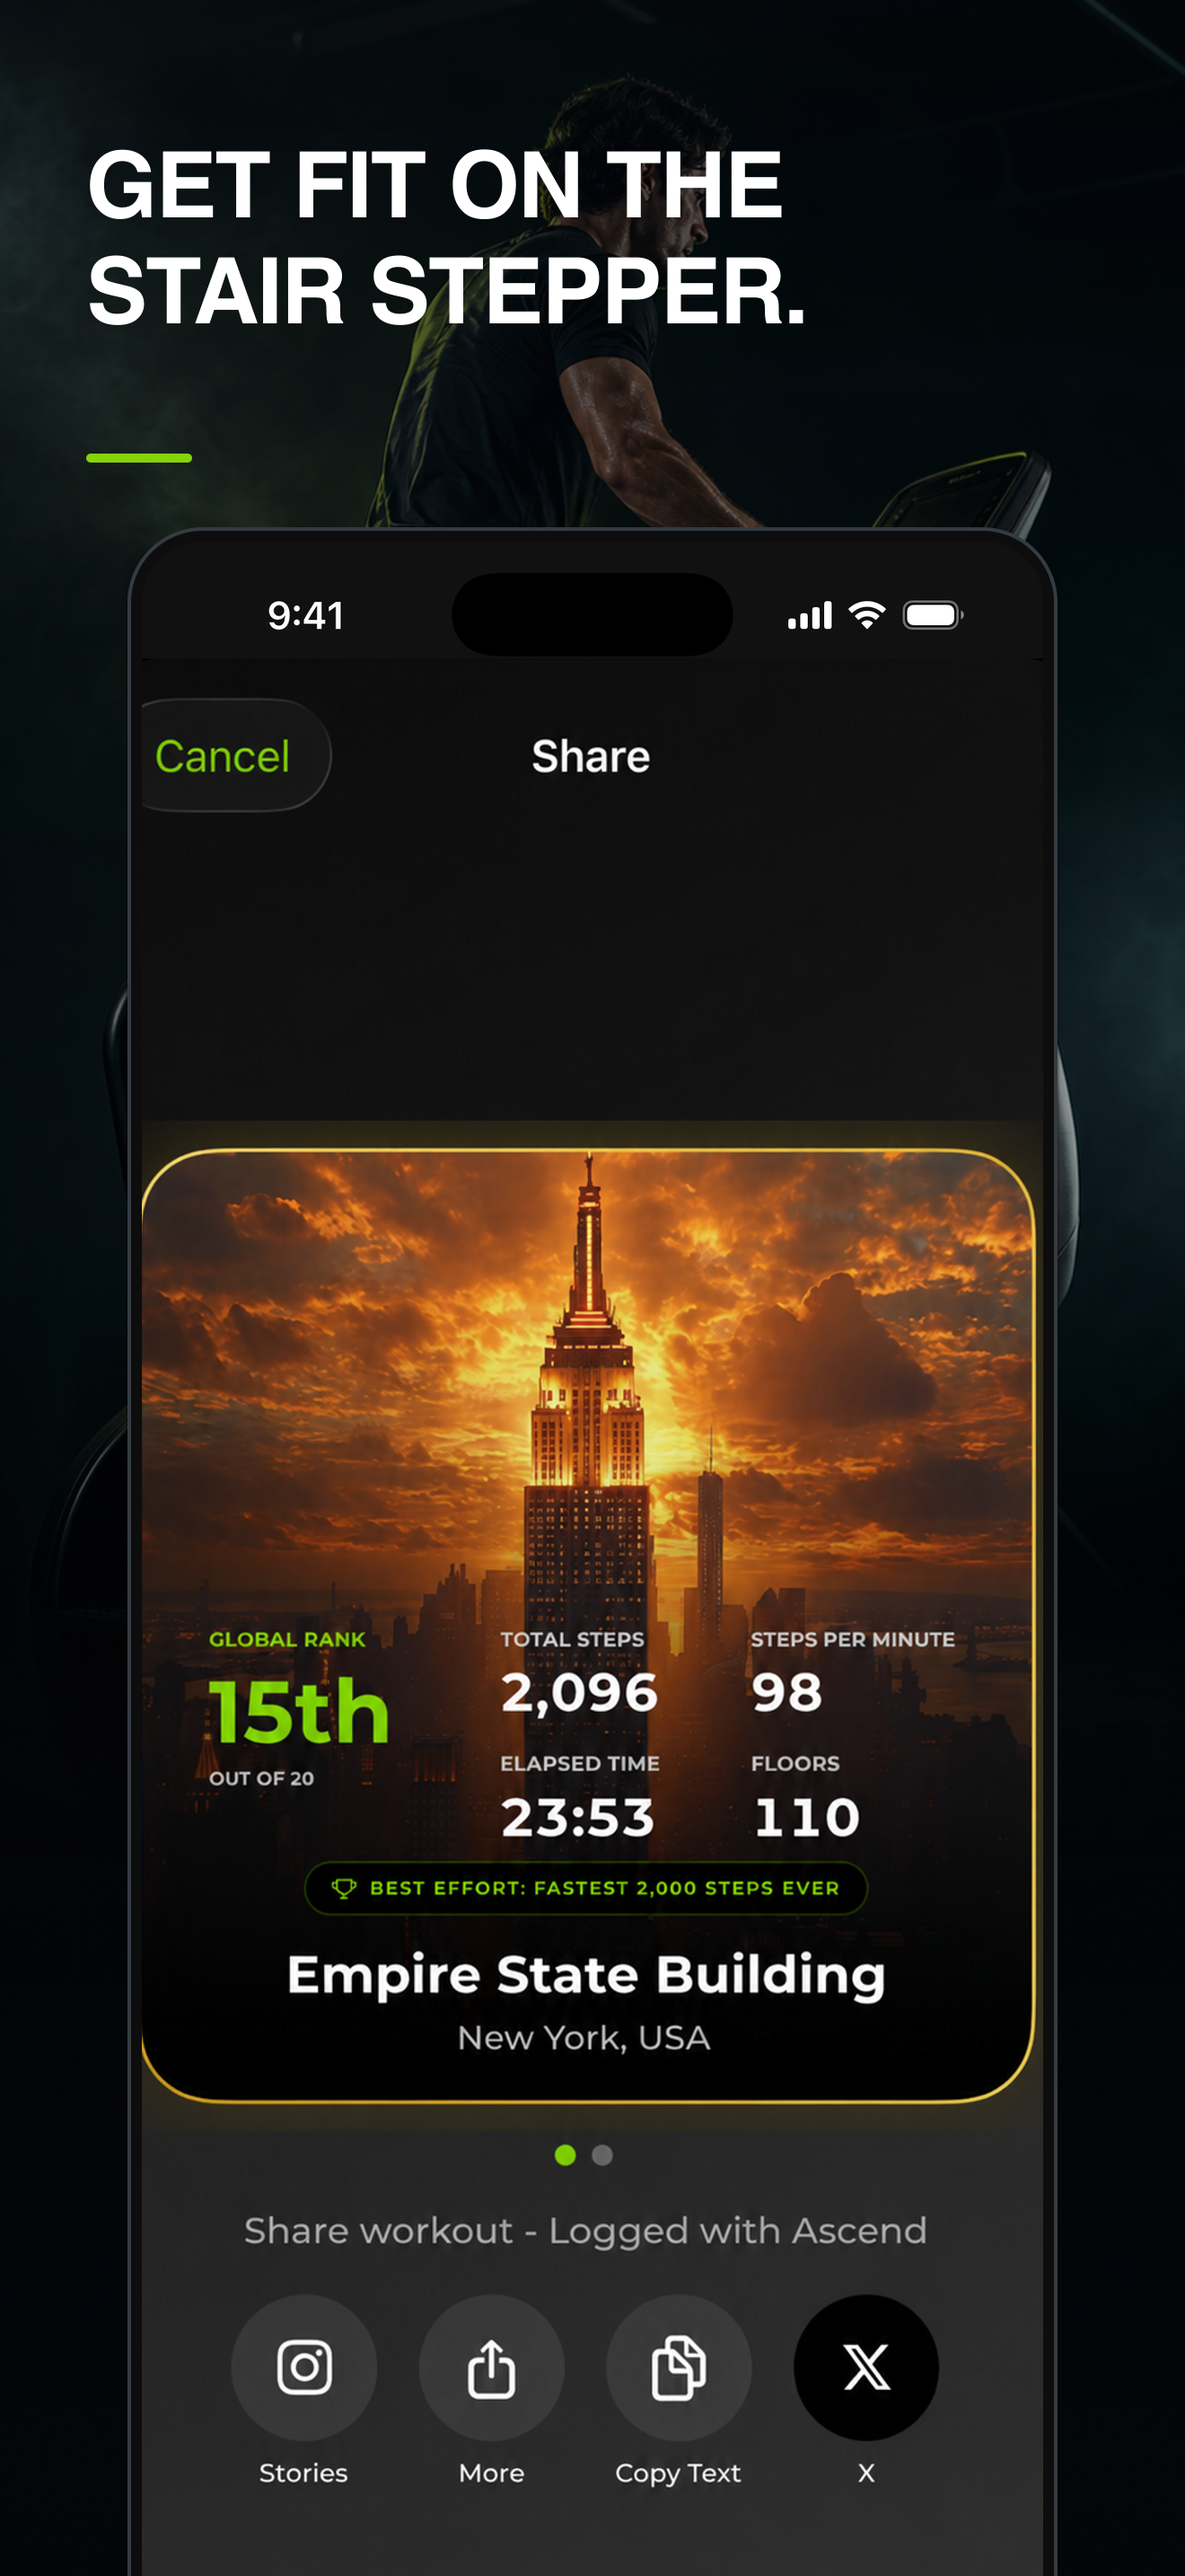
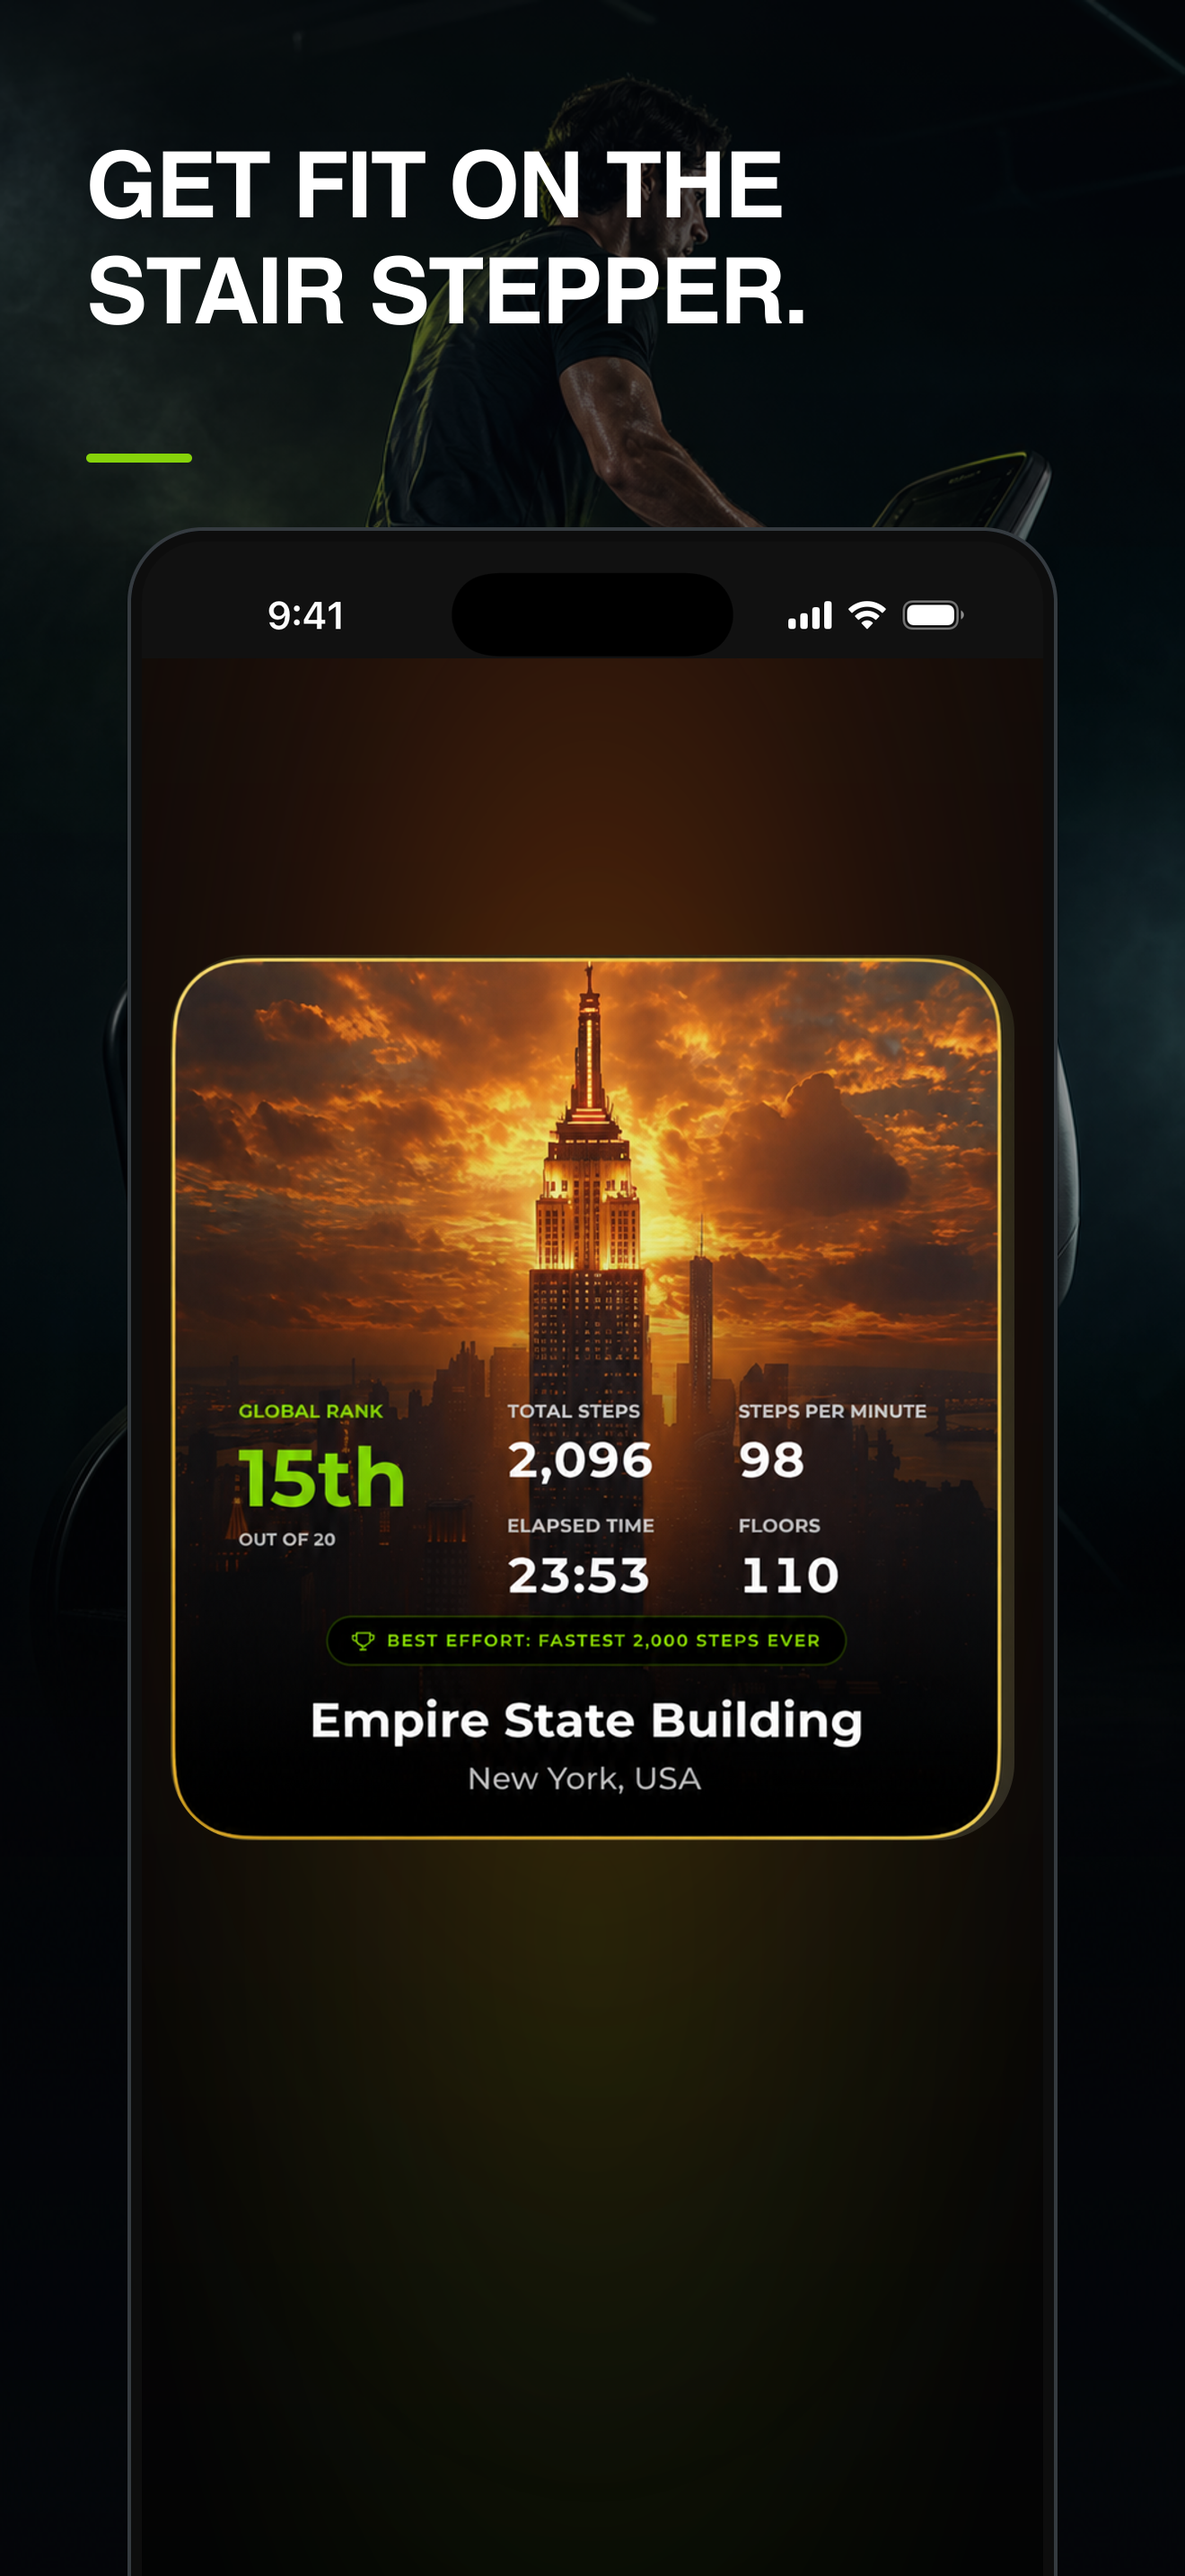
fix: focus lead screenshot on climb recap

diff --git a/AppStoreAssets/qa/review.md b/AppStoreAssets/qa/review.md
@@ -25,7 +25,8 @@ The seven screens form a coherent progression from stair-stepper effort, to Ever
 
 ## Content coherence
 
-- Screen 01 pairs stair-stepper effort photography with a real completed-workout share surface.
+- Screen 01 pairs stair-stepper effort photography with the genuine Live Climb recap itself: 15th global rank, 2,096 steps, 98 SPM, 23:53, 110 floors, and Empire State Building.
+- Screen 01 contains no share-sheet title, dismissal control, explanatory copy, or share-destination buttons.
 - Screen 02 pairs its Everest headline with an app surface that visibly includes the Everest card and names Mt. Everest in its supporting copy.
 - Screen 03 shows the live globe and real landmark catalog.
 - Screen 04 shows an in-progress replay leaderboard with the current climber highlighted.

diff --git a/AppStoreAssets/README.md b/AppStoreAssets/README.md
@@ -18,7 +18,7 @@ The two approved transformation photographs are preserved in `sources/`.
 They are used as full-bleed backgrounds rather than replaced.
 
 Every screen contains genuine Ascend UI.
-Screen 01 uses the real Live Climb share capture.
+Screen 01 isolates the genuine Live Climb recap card from the real app capture, with the surrounding share workflow removed.
 Screen 02 uses a Simulator capture of Ascend's landmark onboarding surface, including its Everest card.
 Screens 03 through 05 use the real globe, live replay leaderboard, and per-climb leaderboard captures.
 Screen 06 uses a Simulator capture of Ascend's First Ascent notification surface with its genuinely enabled primary action.
